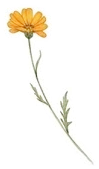
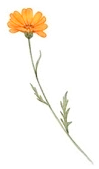
Save the date: pink cosmos bloom, warmer colors, spin after 80% grow
The hero bloom is now a pink cosmos instead of the daisy. It grows to
80% of its previous full size, stops growing at that point and starts
spinning right away (three turns up to the zoom into The Big Day).

The cosmos and all the falling flowers and petals are regraded with
+56% saturation and a warmer white balance, baked into the images so
the animation stays cheap.

Changed region(s): [[0.1515, 0.0592, 0.4848, 0.2367], [0.0909, 0.0592, 0.1818, 0.1775], [0.2424, 0.0296, 0.2727, 0.0592]]

diff --git a/src/components/sections/HeroSaveDateCouple.tsx b/src/components/sections/HeroSaveDateCouple.tsx
@@ -46,7 +46,12 @@ const FALLING_PETALS = Array.from(
 
 // The bloom that grows, spins behind the story and zooms into The Big Day.
 // Its yellow center is what fills the frame on the zoom-out.
-const DAISY_HERO_SRC = `${import.meta.env.BASE_URL}flowers/camomile_x1.png`
+// The bloom grows from 0 and stops at 80 % of its full size, then spins.
+// Growth is linear over 0.22 → 0.40, so 80 % is reached at 0.22 + 0.8 * 0.18.
+const HOLD_SCALE = 0.8
+const GROW_END = 0.22 + 0.18 * HOLD_SCALE
+
+const DAISY_HERO_SRC = `${import.meta.env.BASE_URL}flowers/cosmos_hero.webp`
 
 /**
  * Combined Save-the-Date → Meet-the-Couple hero.
@@ -67,9 +72,9 @@ const DAISY_HERO_SRC = `${import.meta.env.BASE_URL}flowers/camomile_x1.png`
  *   0.10 → 0.15  date line scatter-collects
  *   0.15 → 0.20  countdown digits scatter-collect
  *   0.18 → 0.22  countdown labels mask-reveal
- *   0.22 → 0.40  daisy GROWS from the center (scale 0 → 1, -20° → 0°
- *                unwind) — a long 18 % scroll window (~144vh of scrolling)
- *                so the grow is unmistakable.
+ *   0.22 → 0.364 flower GROWS from the center to 80 % of its full size
+ *                (scale 0 → 0.8, -20° → 0° unwind), then stops growing
+ *                and starts spinning right away.
  *   0.42 → 0.48  save-the-date layer fades out completely (1 → 0)
  *   0.48 → 0.54  "OUR STORY / The Couple" heading fades in (0 → 1) —
  *                kicks off the moment save-the-date is gone.
@@ -79,7 +84,7 @@ const DAISY_HERO_SRC = `${import.meta.env.BASE_URL}flowers/camomile_x1.png`
  *   0.62 → 0.90  photo cascade rises past the daisy — a 28 % window
  *                (~224vh of scroll) so each milestone has time on screen
  *                for the reader to take in the caption.
- *   0.54 → 0.90  daisy spins 0° → 720° behind the heading + cascade
+ *   0.364 → 0.90 flower spins 0° → 1080° behind the heading + cascade
  *                — keeps the flower visibly alive while the story plays.
  *   0.90 → 1.00  daisy zooms scale 1 → 6 into "The Big Day" — only
  *                AFTER the last cascade card has scrolled past the top.
@@ -115,16 +120,16 @@ export function HeroSaveDateCouple() {
   // way through the cascade, then zooms HARD from 0.90 → 1.0 (scale 1 → 14)
   // so the daisy's yellow center fully dominates the frame before the
   // hand-off to HeroBigDay.
-  const daisyScale = useTransform(scrollYProgress, [0, 0.22, 0.4, 0.9, 1], [0, 0, 1, 1, 18])
-  // Rotation: hold at -20° until grow begins, unwind to 0° as it grows,
-  // hold at 0° during the save-date fade-out, then spin a full 720° (two
-  // turns) starting the moment the couple heading appears so the daisy
-  // is visibly alive while the heading sits and the cascade plays.
-  const daisyRotate = useTransform(
+  const daisyScale = useTransform(
     scrollYProgress,
-    [0, 0.22, 0.4, 0.54, 0.9],
-    [-20, -20, 0, 0, 720]
+    [0, 0.22, GROW_END, 0.9, 1],
+    [0, 0, HOLD_SCALE, HOLD_SCALE, 18]
   )
+  // Rotation: hold at -20° until grow begins and unwind to 0° as it grows.
+  // The moment the grow stops (GROW_END) it starts spinning — 1080° (three
+  // turns) all the way to the zoom — so it is visibly alive through the
+  // save-the-date fade, the heading and the cascade.
+  const daisyRotate = useTransform(scrollYProgress, [0, 0.22, GROW_END, 0.9], [-20, -20, 0, 1080])
 
   // Save-the-date layer fades out 0.42 → 0.48. Function form for the same
   // reliability reason as the daisy opacity above.
